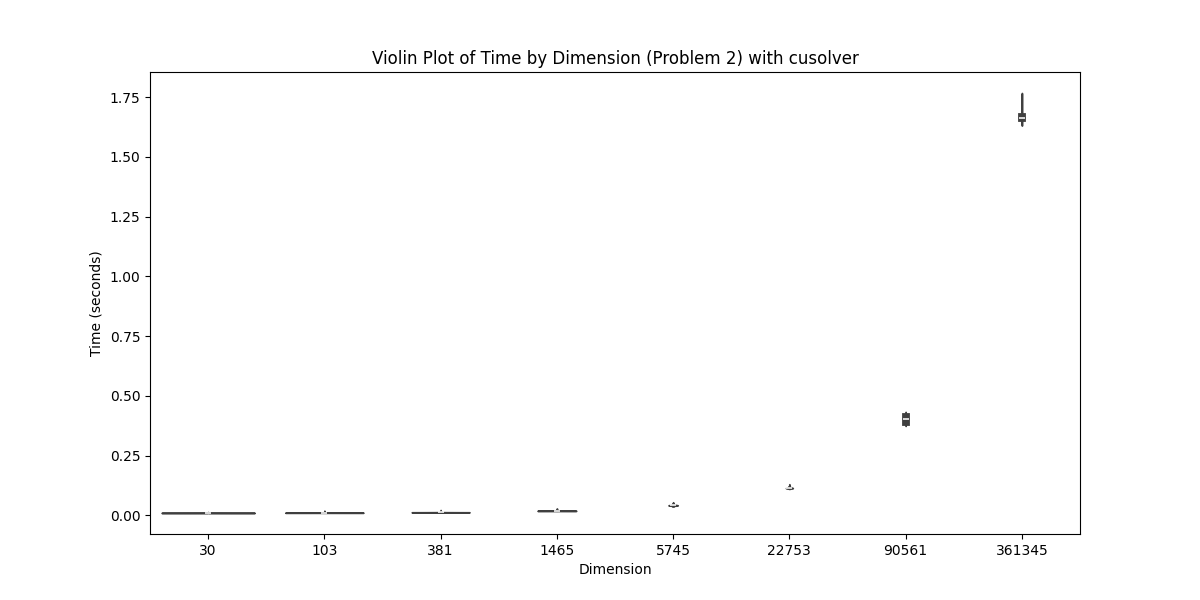
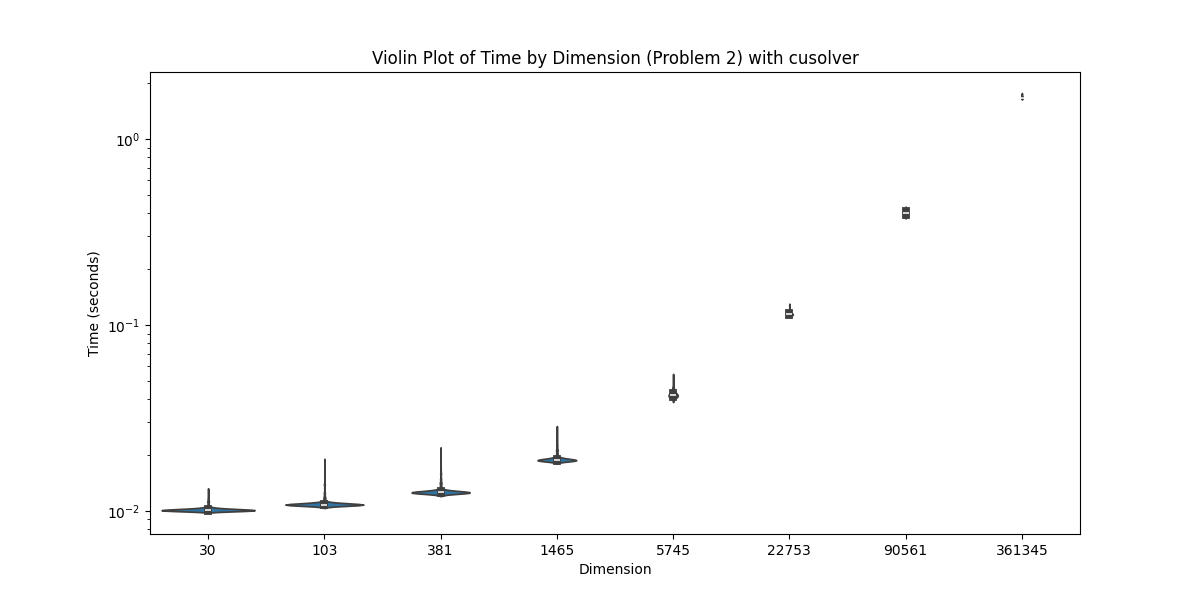
plots with log y scale

diff --git a/benchmarking_data/violin_one_problem_all_complexity/violin_all_compl.py b/benchmarking_data/violin_one_problem_all_complexity/violin_all_compl.py
@@ -37,7 +37,8 @@ for path in file_paths:
         plt.xlabel('Dimension')
         plt.ylabel('Time (seconds)')
 
-        plt.yscale('linear')
+        plt.yscale('log')
+
 
         # Save plot
         plt.savefig(f'violin_plot_{method}_problem_{problem}.png')
